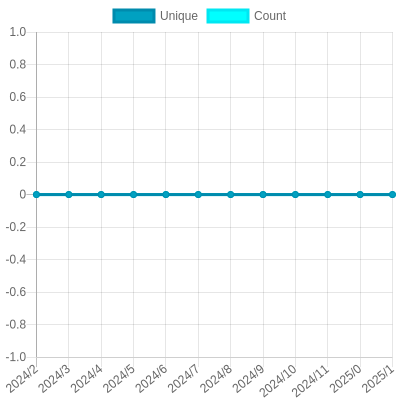
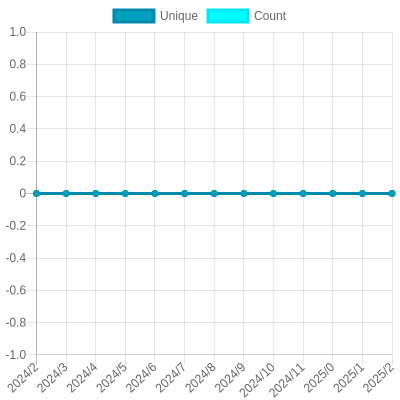
Update views

diff --git a/README.md b/README.md
@@ -26,7 +26,7 @@ The project created and maintained by [gayanvoice](https://github.com/gayanvoice
 			</a>
 		</td>
 		<td>
-			2024/2/28 1:01 AM UTC
+			2024/2/29 1:01 AM UTC
 		</td>
 		<td>
 			29
@@ -37,7 +37,7 @@ The project created and maintained by [gayanvoice](https://github.com/gayanvoice
 	</tr>
 </table>
 
-<small><i>Last updated on 2024/3/1 6:18 PM UTC</i></small>
+<small><i>Last updated on 2024/3/2 1:00 AM UTC</i></small>
 
 ## ✂Copy and 📋 Paste
 ### Total Views Badge

diff --git a/readme/262562670/year.md b/readme/262562670/year.md
@@ -20,6 +20,17 @@
 	</tr>
 	<tr>
 		<td>
+			<code>2024/3/1</code>
+		</td>
+		<td>
+			<code>0</code>
+		</td>
+		<td>
+			<code>0</code>
+		</td>
+	</tr>
+	<tr>
+		<td>
 			<code>2024/2/1</code>
 		</td>
 		<td>
@@ -153,7 +164,7 @@
 </table>
 
 </details>
-<small><i>Last updated on 2024/3/1 6:18 PM UTC</i></small>
+<small><i>Last updated on 2024/3/2 1:00 AM UTC</i></small>
 
 ## ✂Copy and 📋 Paste
 ### SVG Badge
